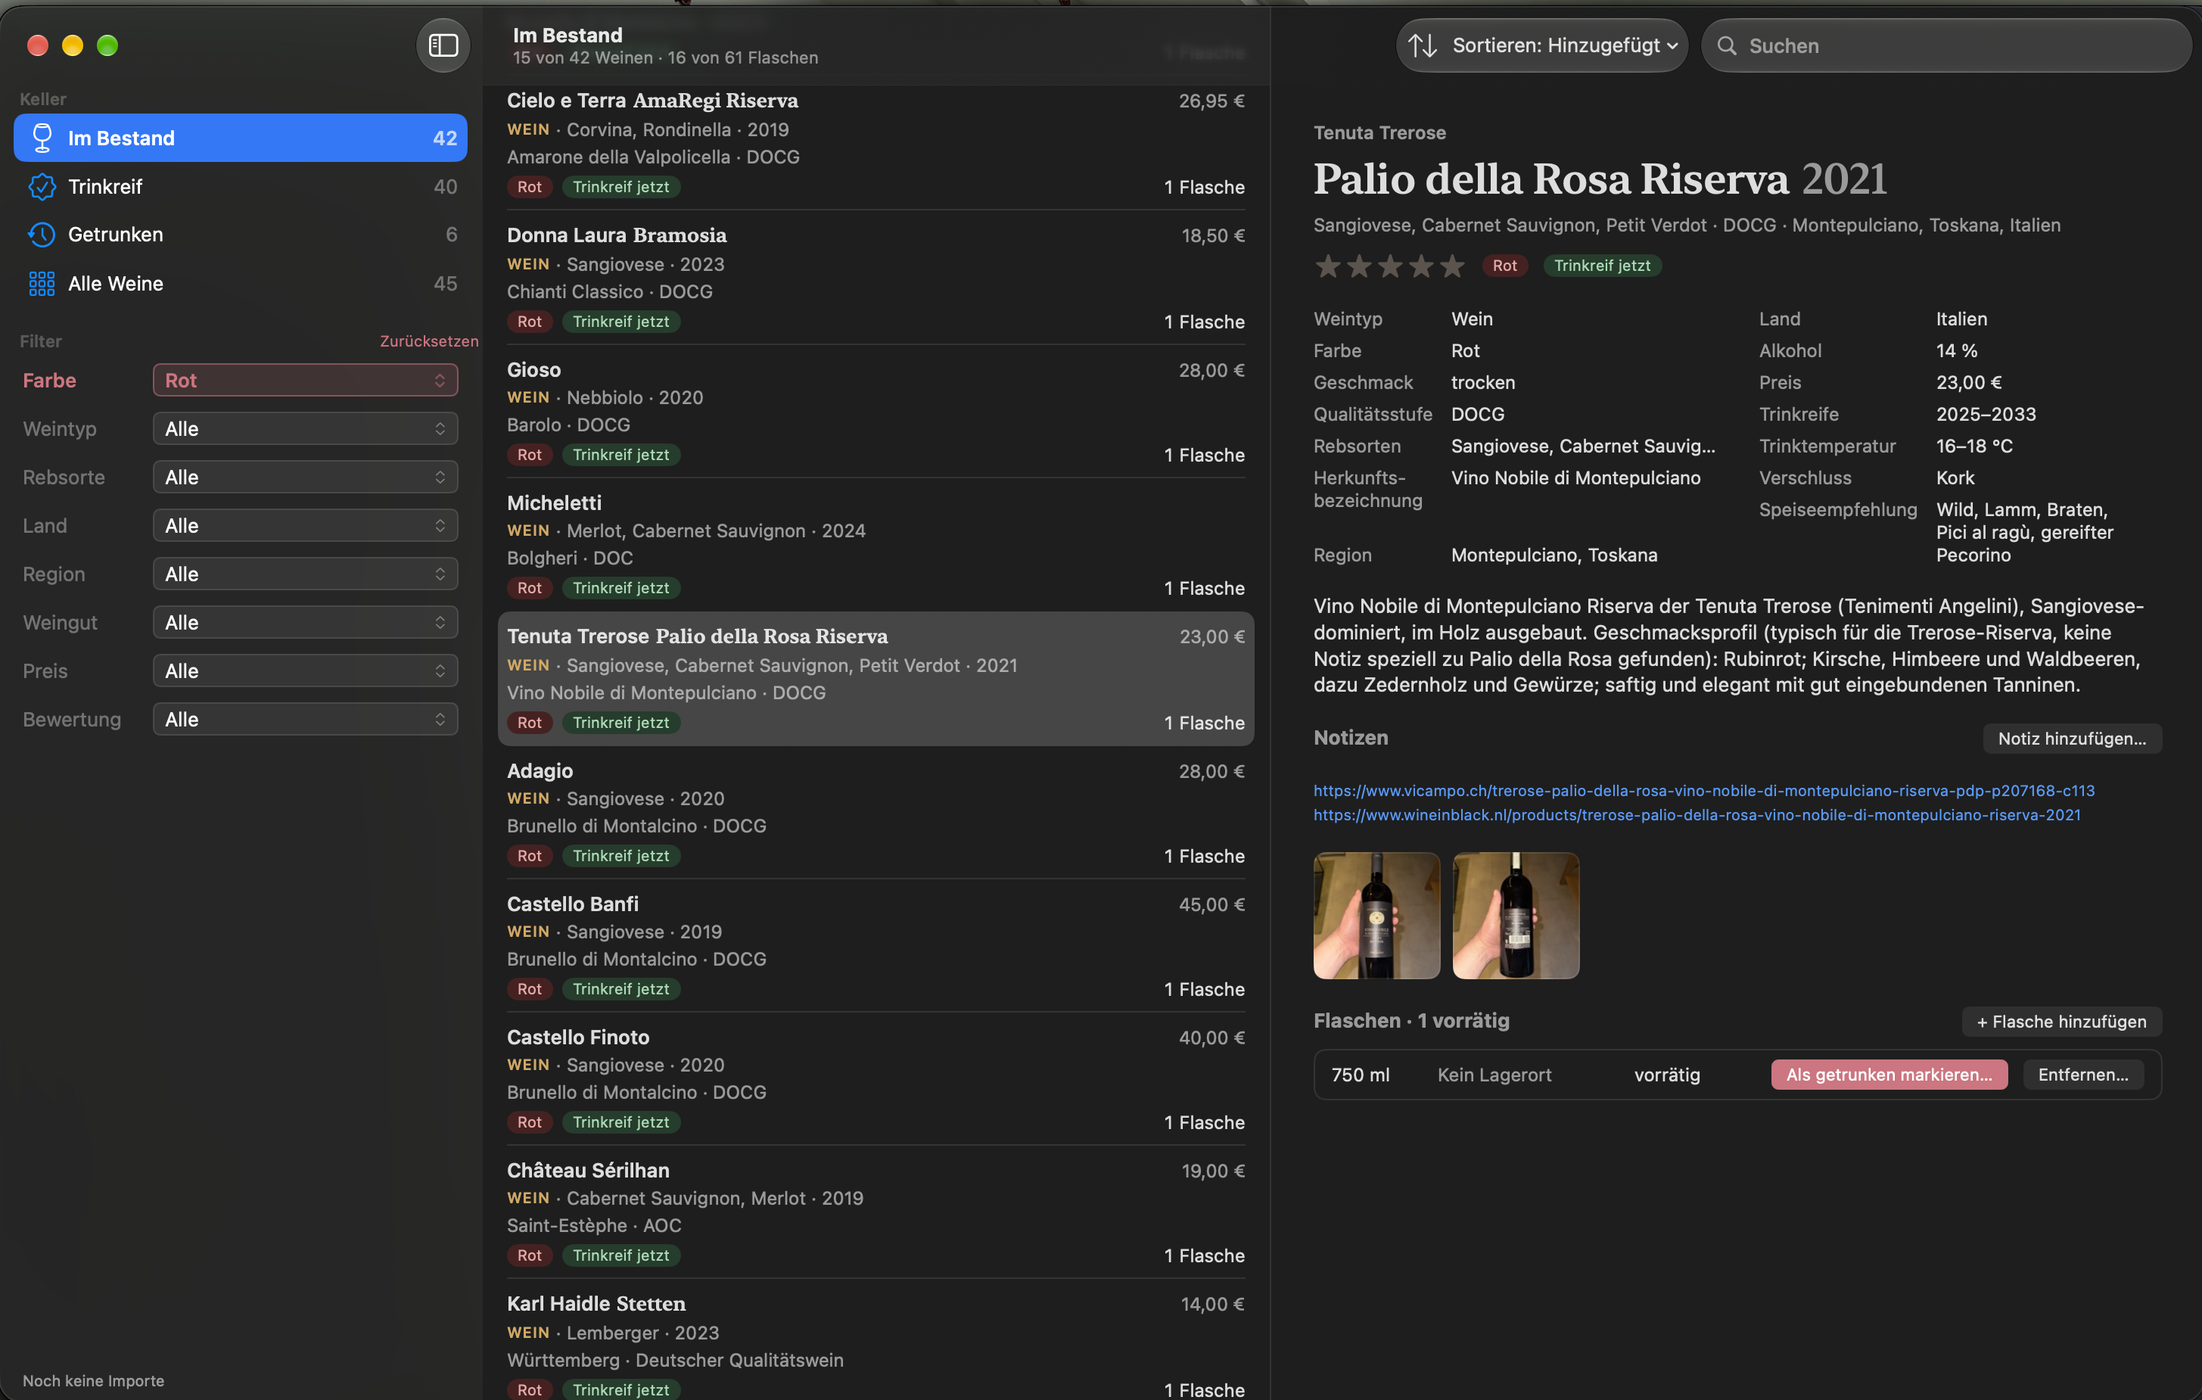
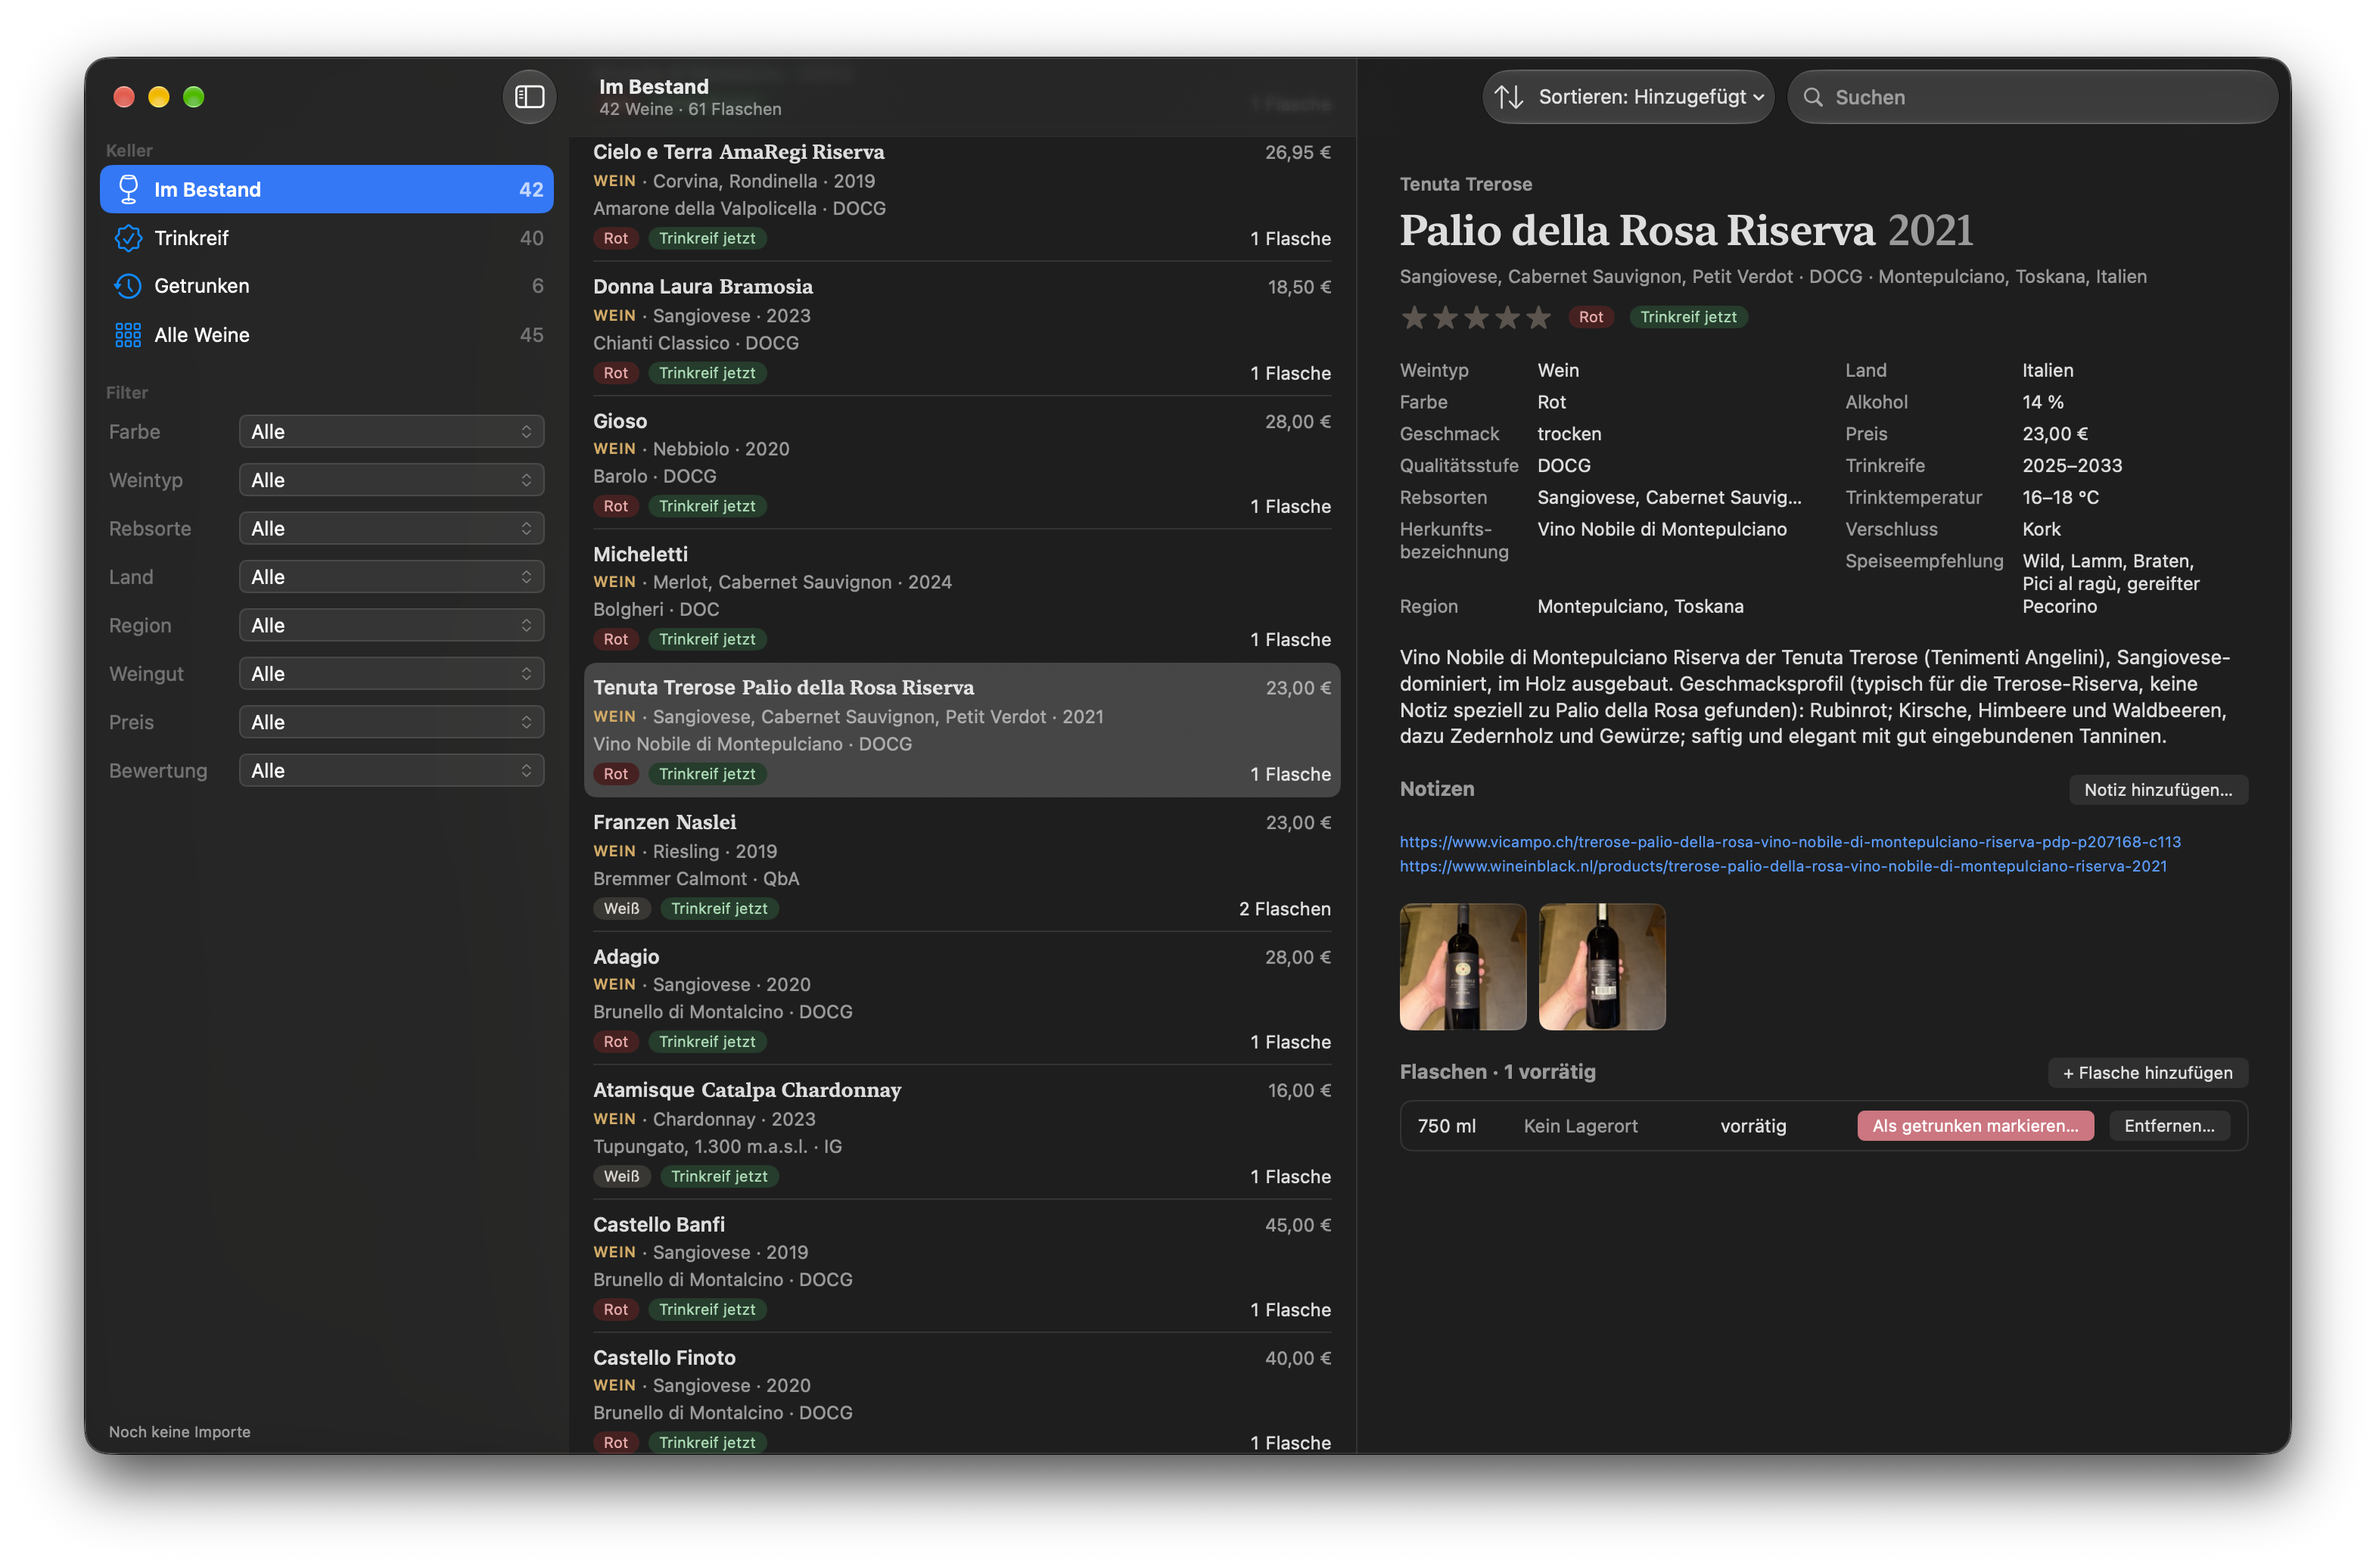
docs: Say Schwips is a Mac app, update screenshot
The intro now names the platform in its first sentence, and the screenshot shows the whole window with the cellar unfiltered.

diff --git a/README.md b/README.md
@@ -1,12 +1,12 @@
 # 🍷 Schwips
 
-Schwips keeps track of your wine cellar: what you own, how many bottles of each, and when each one will be at its best to drink. To add a wine, you take a photo of its label; Claude Code reads it, researches anything not printed on it, and adds the bottle to your inventory. Schwips is a native **macOS app**: open it to browse your collection, search, filter and sort it, and see what's ready to drink.
+Schwips is a **Mac app** that keeps track of your wine cellar: what you own, how many bottles of each, and when each one will be at its best to drink. To add a wine, you take a photo of its label; Claude Code reads it, researches anything not printed on it, and Schwips adds the bottle to your inventory. Open the app to browse your collection, search, filter and sort it, and see what's ready to drink.
 
 > The app speaks English and German and follows your system language (in German you'll see "Im Bestand" for in stock, "Trinkreif jetzt" for ready to drink, and so on). There is no iPhone or iPad app yet, but Schwips is built so one can follow and share the same cellar.
 
-![The Schwips window in German: the sidebar with the lists Im Bestand, Trinkreif, Getrunken and Alle Weine and the colour filter set to Rot; the list of red wines in stock sorted by date added; and the detail of Tenuta Trerose Palio della Rosa Riserva 2021 with its facts, description, notes, label photos and one bottle in stock.](docs/screenshot.png)
+![The Schwips window in German: the sidebar with the lists Im Bestand, Trinkreif, Getrunken and Alle Weine and the eight filters; the wines in stock, red and white, sorted by date added, each with its grapes, vintage, appellation, tags and bottle count; and the detail of Tenuta Trerose Palio della Rosa Riserva 2021 with its facts, description, notes, label photos and one bottle in stock.](docs/screenshot.png)
 
-*The cellar filtered to red wines, with one wine open: its facts, description, label photos and bottles.*
+*Your cellar at a glance: the wines in stock on the left, one wine open with its facts, description, label photos and bottles.*
 
 ## 🗂 Wines and bottles
 
